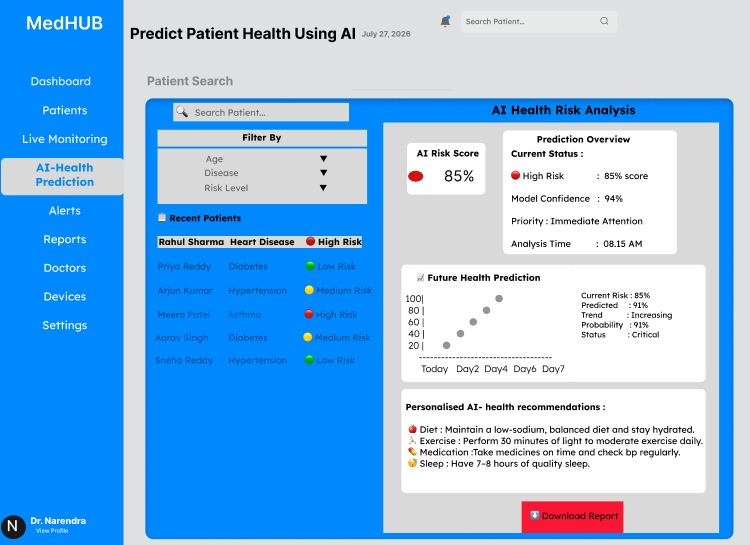
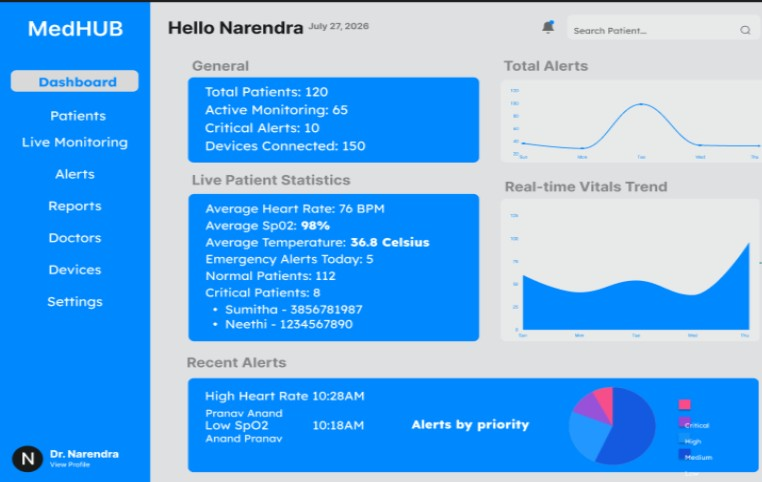
carrots

diff --git a/index.html b/index.html
@@ -211,7 +211,7 @@
               <a class="image-link" href="./Content/python%20kahoot%20quiz%202.jpeg" target="_blank" rel="noreferrer">
                 <img src="./Content/python%20kahoot%20quiz%202.jpeg" alt="A second moment from the Python Kahoot quiz" loading="lazy">
               </a>
-              <figcaption><span>Quiz night <small>02</small></span><span class="caption-mark" aria-hidden="true">↗</span></figcaption>
+              <figcaption><span><small>02</small></span><span class="caption-mark" aria-hidden="true">↗</span></figcaption>
             </figure>
           </div>
         </section>
@@ -285,7 +285,7 @@
         <p class="star-kicker" id="star-title">TOTAL STARS COLLECTED</p>
         <span class="big-star" aria-hidden="true">★</span>
         <p class="star-count">0.5</p>
-        <span class="star-caption">ONE SMALL SPARK. MORE ON THE WAY.</span>
+        <span class="star-caption">That's honestly all I got</span>
         <span class="star-orbit star-orbit-one" aria-hidden="true"></span>
         <span class="star-orbit star-orbit-two" aria-hidden="true"></span>
       </section>
